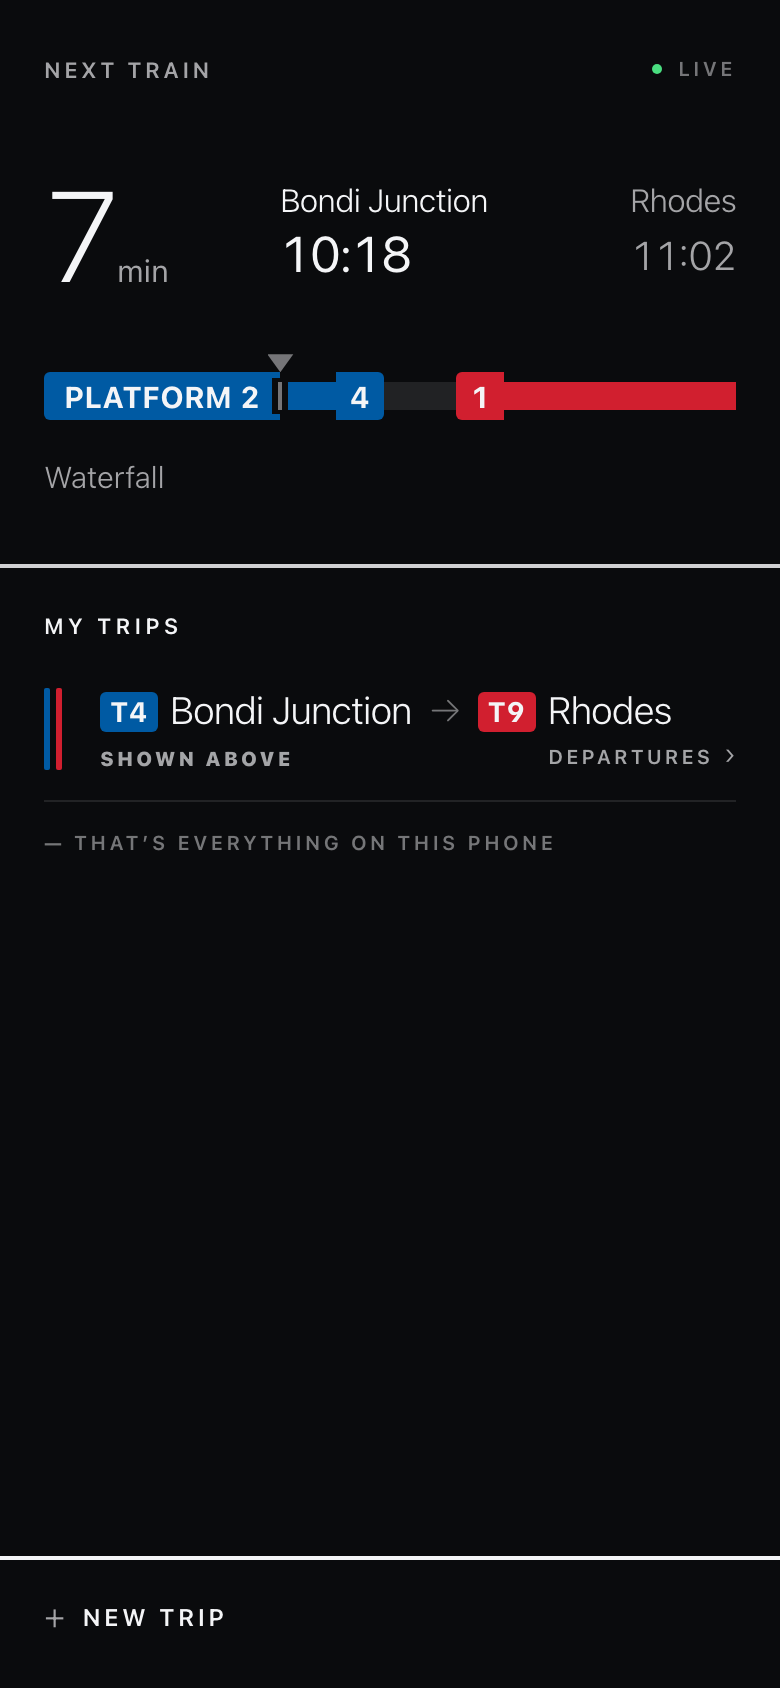
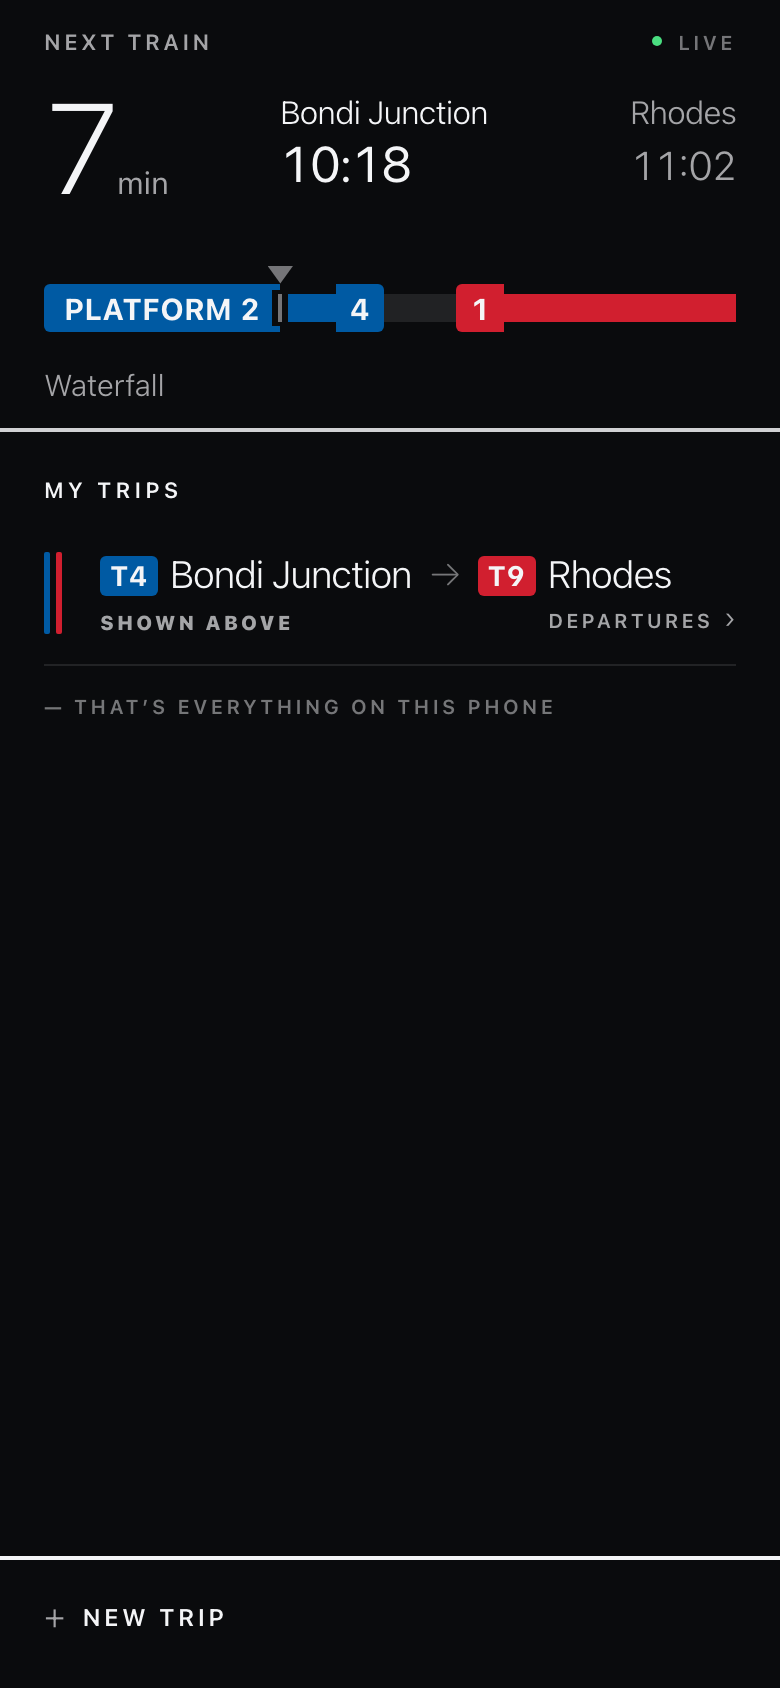
playtest-fixes phase 6: the masthead header
Direction 4 from the header-height comps workshop, folded into app.css
rather than left as an override. The header is content-sized: the top
band becomes the device's top inset floored at 14px (the screen had no
notch clearance at all), the block runs on 20/12/8/12, and the heavy
rule closes it at 214px from the frame top at 390x844 instead of 282px.
All ten home exemplars re-shot.

diff --git a/web/app.css b/web/app.css
@@ -388,16 +388,18 @@ body { --sy-pad: 22px; --sy-fig: 72px; --sy-gap: 14px; }
   --figtrack: 104px; --fign: 64px; --fign-wide: 50px; --stn: 16px;
   --dept: 25px; --arrt: 20px; --jh: 42px; --caph: 24px; --capf: 15px;
   --cappad: 10px; --barh: 14px; --mkgap: 3px; --signf: 15px;
-  --hdpad-t: 18px; --hdpad-b: 16px; --hdgap: 12px; --hdmax: 226px;
+  --hdpad-t: 20px; --hdpad-b: 12px; --hdgap: 12px;
 }
+/* The band is the notch clearance: nothing else in the stylesheet reads the
+   top inset, and the app installs standalone. */
 .hm-top {
   flex: none; display: flex; align-items: center; justify-content: space-between;
-  gap: 12px; padding: 12px 22px 0; min-height: 44px;
+  gap: 12px; padding: max(14px, env(safe-area-inset-top, 0px)) 22px 0; min-height: 22px;
 }
 /* Clips rather than ellipsises: only a station name grows this line, and
    fitStationNames shortens one by rule instead. */
 .answer-kind {
-  display: flex; align-items: center; min-width: 0; min-height: 44px;
+  display: flex; align-items: center; min-width: 0;
   font-size: 11px; font-weight: 600; letter-spacing: .15em;
   text-transform: uppercase; color: var(--ink-2);
 }
@@ -407,7 +409,7 @@ body { --sy-pad: 22px; --sy-fig: 72px; --sy-gap: 14px; }
 .status-late-word { margin-left: .42em; }
 .hm-fresh { display: flex; align-items: center; gap: 8px; flex: none; }
 .hm-hd {
-  flex: 1 1 auto; min-height: 190px; max-height: var(--hdmax); align-content: center;
+  flex: none;
   display: grid; grid-template-columns: var(--figtrack) 1fr; column-gap: 14px;
   width: 100%; text-align: left; padding: var(--hdpad-t) 22px var(--hdpad-b);
 }
@@ -444,7 +446,7 @@ body { --sy-pad: 22px; --sy-fig: 72px; --sy-gap: 14px; }
 .hm-hd .sy-bar { height: var(--barh); }
 .hm-hd .sy-bar .sy-p { height: var(--caph); font-size: var(--capf); padding: 0 7px; min-width: 24px; letter-spacing: .02em; }
 .hm-sign {
-  grid-column: 1 / -1; grid-row: 3; margin-top: calc(var(--hdgap) - 2px); min-width: 0;
+  grid-column: 1 / -1; grid-row: 3; margin-top: 8px; min-width: 0;
   font-size: var(--signf); font-weight: 300; line-height: 1.3; color: var(--ink-2);
   white-space: nowrap; overflow: hidden; text-overflow: ellipsis;
 }

diff --git a/docs/contracts/ui.md b/docs/contracts/ui.md
@@ -65,6 +65,12 @@ substitutes for going back.
   and the coloured platform markers of every change. Both station names share
   one top edge and both times share one baseline; the arrival clock, the
   smaller of the two, takes a 7px top margin to reach it.
+- The header is content-sized rather than centred in a reserved box, so a
+  receipt appearing pushes the heavy rule down instead of taking up slack. The
+  band above it is the device's top inset with a 14px floor, which is the
+  screen's only notch clearance. Its rhythm is 20px above the figure row, 12px
+  to the journey device and to a receipt, 8px above the instruction line and
+  12px below the block to the rule.
 - Station names are never ellipsised. A name that would clip is shortened by
   rule until it fits: `Station` dropped, `Junction` to `Jn`, then leading
   compass words to initials.
@@ -372,9 +378,11 @@ The set is thirty frames:
 
 Measurements these frames carry deliberately, so nothing above reads as drift:
 the two header clocks share a baseline to within 1px, which is the tolerance
-the instrument allows; a focused journey still shows its boarding cap and
-pre-departure progress marker before it leaves, so `home-390x844-focused-cxl`
-carries both; `detail-*-tight` shoots a change shortened by a late first leg,
+the instrument allows; the header's heavy rule sits 214px from the frame top
+at 390×844 with no receipt, which is what the content-sized block measures;
+a focused journey still shows its boarding cap and pre-departure progress
+marker before it leaves, so `home-390x844-focused-cxl` carries both;
+`detail-*-tight` shoots a change shortened by a late first leg,
 so its promoted row reads `5 MIN LATE`. One defect is visible and open, not
 accepted: on `board-390x844-past` the provenance `TIMETABLE ONLY` overflows the
 72px figure column by 24px, which the sweep prints as a `NOTE` pending an owner
